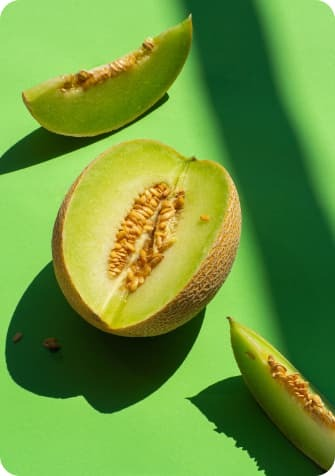
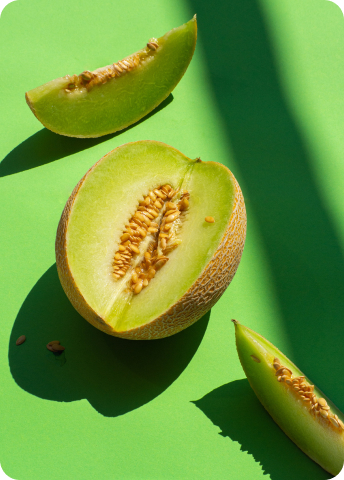
fix-3

diff --git a/src/partials/contact.html b/src/partials/contact.html
@@ -9,24 +9,24 @@
         <picture>
           <source
             srcset="
-              ./img/contacts/melonDesc@2x.jpg 2x,
-              ./img/contacts/melonDesc.jpg    1x
+              ./img/contacts/melonDesc@2x.jpg 1584w,
+              ./img/contacts/melonDesc.jpg     792w
             "
             media="(min-width: 1280px)"
             sizes="792px"
           />
           <source
             srcset="
-              ./img/contacts/melonTab@2x.jpg 2x,
-              ./img/contacts/melonTab.jpg    1x
+              ./img/contacts/melonTab@2x.jpg 688w,
+              ./img/contacts/melonTab.jpg    344w
             "
             media="(min-width: 768px)"
             sizes="344px"
           />
           <source
             srcset="
-              ./img/contacts/melonTab@2x.jpg 2x,
-              ./img/contacts/melonTab.jpg    1x
+              ./img/contacts/melonTab@2x.jpg 670w,
+              ./img/contacts/melonTab.jpg    335w
             "
             media="(max-width: 767px)"
             sizes="335px"

diff --git a/src/partials/hero.html b/src/partials/hero.html
@@ -4,9 +4,9 @@
     <h1 class="hero-text-h1">
       fresh harvest box<br />is your 0ne-stop place for a delicious fruit basket
     </h1>
-    <button type="button" class="hero-button">
-      <a href="#fruits">shop now</a>
-    </button>
+    <form action="#fruits">
+      <button type="submit" class="hero-button">shop now</button>
+    </form>
     <ul class="sorting">
       <li class="first-group list">
         <p class="hero-text">

diff --git a/src/partials/footer.html b/src/partials/footer.html
@@ -8,7 +8,7 @@
           ./img/footer/banana-girl2x-670w.jpg 670w,
           ./img/footer/banana-girl2x-698w.jpg 698w
         "
-        sizes="(min-width: 1280px) 349px, (min-width: 768px) 349px, (min-width: 375px) 335w, 100vw"
+        sizes="(min-width: 1280px) 349px, (min-width: 768px) 349px, (min-width: 375px) 335px, 100vw"
         src="./img/footer/banana-girl1x 335w.jpg"
         alt="Girl with banana"
         loading="lazy"
